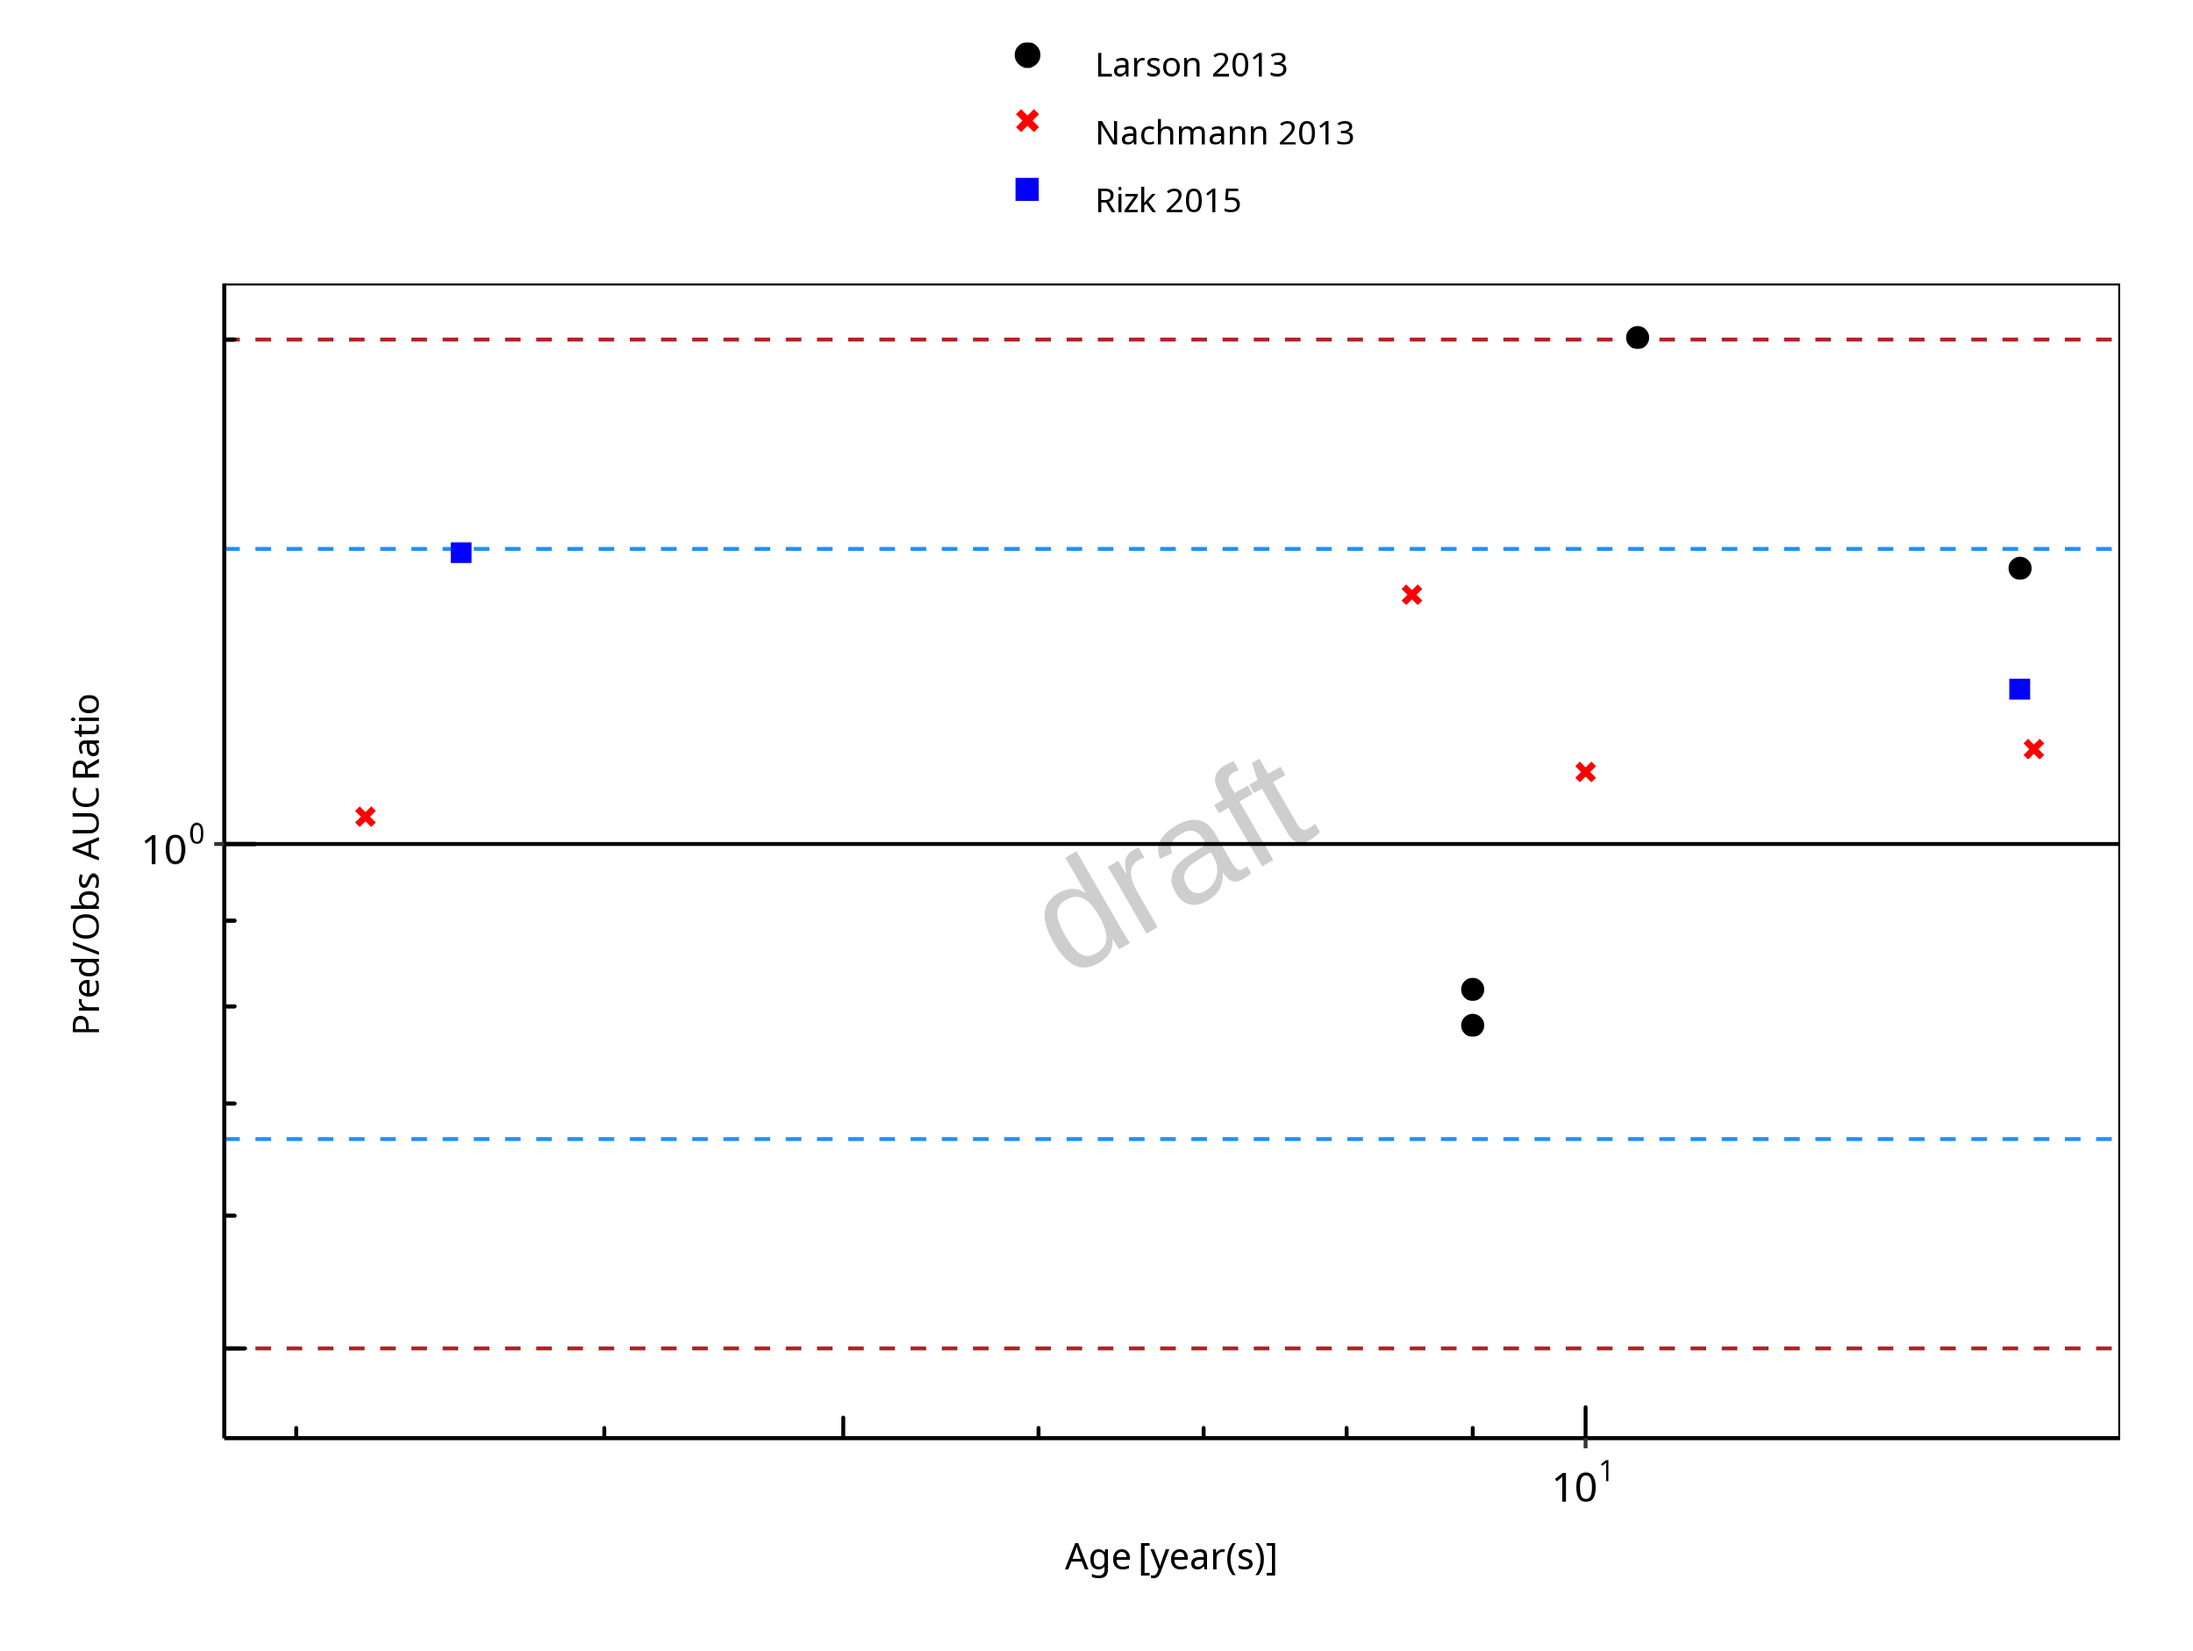
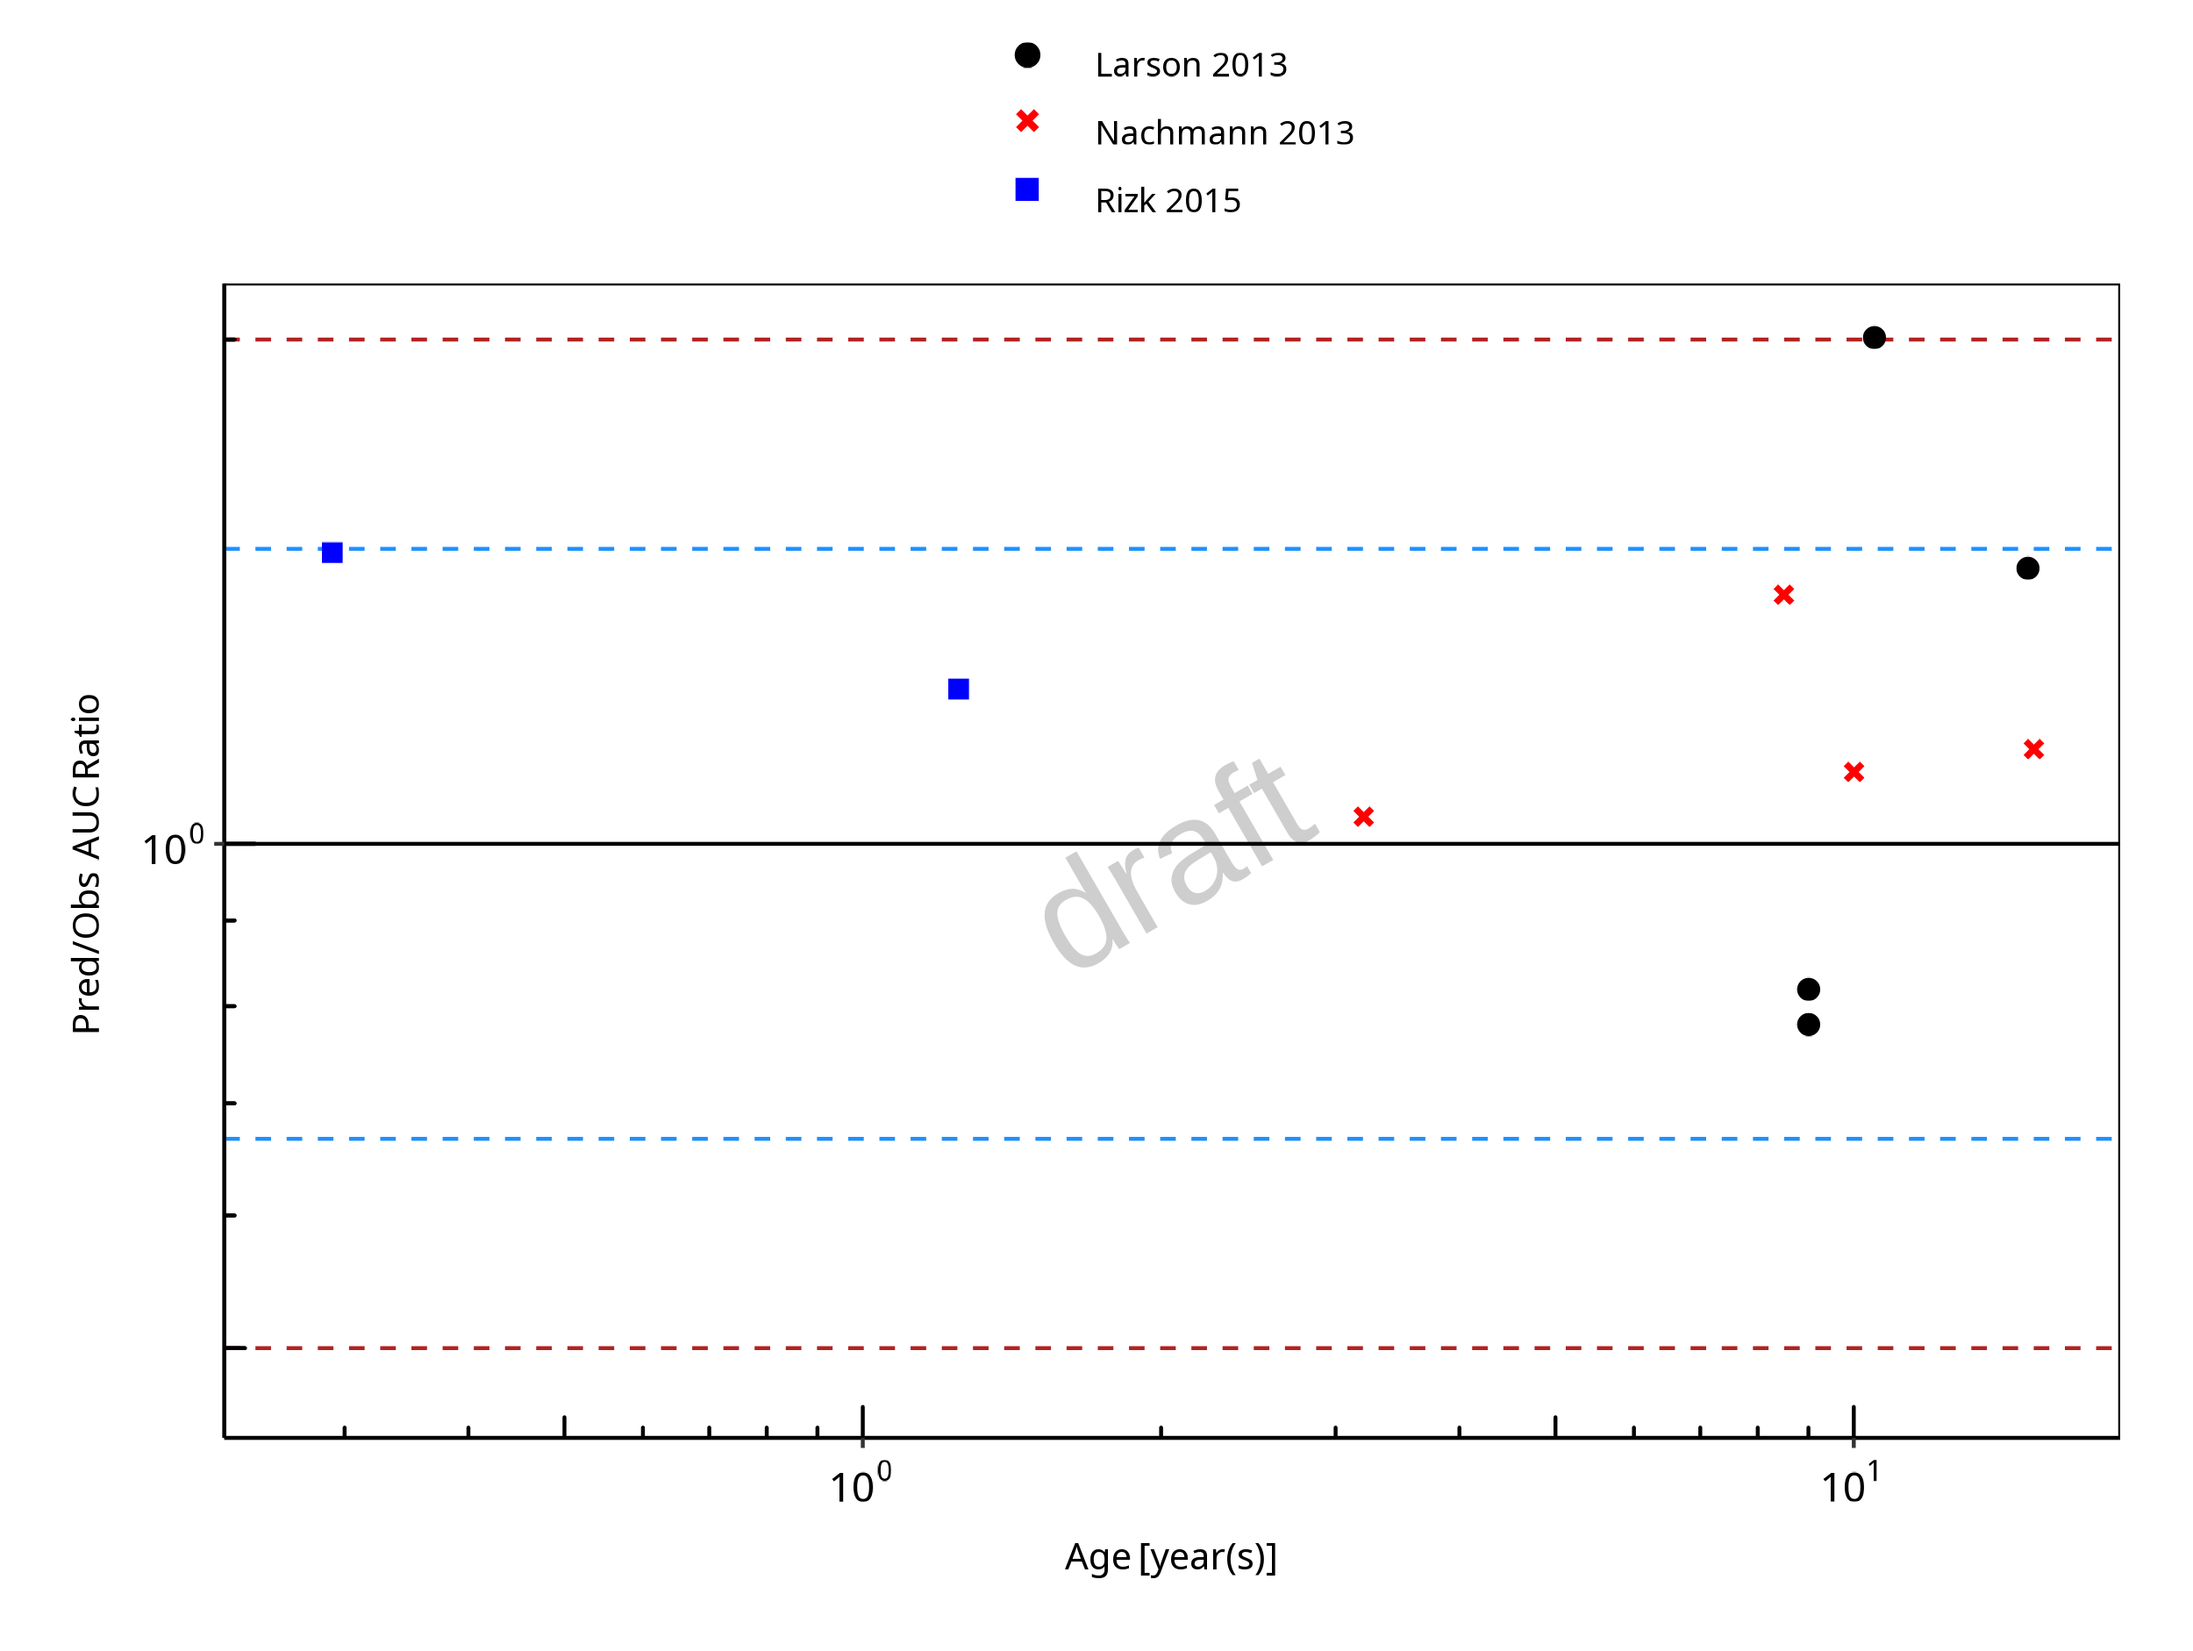
Deploying to gh-pages from @ Open-Systems-Pharmacology/RE-Test-Reports@5c4d835e1915ce0a2bf8ecbab8d8bc02d3036794 🚀

diff --git a/docs/index.html b/docs/index.html
@@ -81,7 +81,7 @@
   <main id="main" class="col-md-9"><div class="section level1">
 <div class="page-header"><h1 id="reporting-engine-test-reports">Reporting Engine Test Reports<a class="anchor" aria-label="anchor" href="#reporting-engine-test-reports"></a>
 </h1></div>
-<p>Open System Pharmacology 2026-06-30</p>
+<p>Open System Pharmacology 2026-07-06</p>
 <div class="section level2">
 <h2 id="welcome-">Welcome !<a class="anchor" aria-label="anchor" href="#welcome-"></a>
 </h2>
@@ -147,9 +147,9 @@ Click to expand
 <span id="cb1-19"><a href="#cb1-19" tabindex="-1"></a><span class="do">## [1] stats     graphics  grDevices utils     datasets  methods   base     </span></span>
 <span id="cb1-20"><a href="#cb1-20" tabindex="-1"></a><span class="do">## </span></span>
 <span id="cb1-21"><a href="#cb1-21" tabindex="-1"></a><span class="do">## other attached packages:</span></span>
-<span id="cb1-22"><a href="#cb1-22" tabindex="-1"></a><span class="do">## [1] RE-Test-Reports_0.0.0.9000          ospsuite.reportingengine_2.4.0.9007</span></span>
-<span id="cb1-23"><a href="#cb1-23" tabindex="-1"></a><span class="do">## [3] ospsuite_12.4.3.9011                tlf_1.6.2.9001                     </span></span>
-<span id="cb1-24"><a href="#cb1-24" tabindex="-1"></a><span class="do">## [5] testthat_3.3.2                      dplyr_1.2.1                        </span></span>
+<span id="cb1-22"><a href="#cb1-22" tabindex="-1"></a><span class="do">## [1] RE-Test-Reports_0.0.0.9000     ospsuite.reportingengine_2.4.7</span></span>
+<span id="cb1-23"><a href="#cb1-23" tabindex="-1"></a><span class="do">## [3] ospsuite_12.4.3.9013           tlf_1.6.2.9001                </span></span>
+<span id="cb1-24"><a href="#cb1-24" tabindex="-1"></a><span class="do">## [5] testthat_3.3.2                 dplyr_1.2.1                   </span></span>
 <span id="cb1-25"><a href="#cb1-25" tabindex="-1"></a><span class="do">## </span></span>
 <span id="cb1-26"><a href="#cb1-26" tabindex="-1"></a><span class="do">## loaded via a namespace (and not attached):</span></span>
 <span id="cb1-27"><a href="#cb1-27" tabindex="-1"></a><span class="do">##  [1] gtable_0.3.6                          </span></span>
@@ -224,9 +224,9 @@ Click to expand
 <span id="cb1-96"><a href="#cb1-96" tabindex="-1"></a><span class="do">## [70] knitr_1.51                            </span></span>
 <span id="cb1-97"><a href="#cb1-97" tabindex="-1"></a><span class="do">## [71] viridisLite_0.4.3                     </span></span>
 <span id="cb1-98"><a href="#cb1-98" tabindex="-1"></a><span class="do">## [72] markdown_2.0                          </span></span>
-<span id="cb1-99"><a href="#cb1-99" tabindex="-1"></a><span class="do">## [73] rlang_1.2.0                           </span></span>
+<span id="cb1-99"><a href="#cb1-99" tabindex="-1"></a><span class="do">## [73] rlang_1.3.0                           </span></span>
 <span id="cb1-100"><a href="#cb1-100" tabindex="-1"></a><span class="do">## [74] gridtext_0.1.6                        </span></span>
-<span id="cb1-101"><a href="#cb1-101" tabindex="-1"></a><span class="do">## [75] Rcpp_1.1.1-1.1                        </span></span>
+<span id="cb1-101"><a href="#cb1-101" tabindex="-1"></a><span class="do">## [75] Rcpp_1.1.2                            </span></span>
 <span id="cb1-102"><a href="#cb1-102" tabindex="-1"></a><span class="do">## [76] glue_1.8.1                            </span></span>
 <span id="cb1-103"><a href="#cb1-103" tabindex="-1"></a><span class="do">## [77] xml2_1.6.0                            </span></span>
 <span id="cb1-104"><a href="#cb1-104" tabindex="-1"></a><span class="do">## [78] pkgload_1.5.3                         </span></span>

diff --git a/docs/articles/Pediatric_Qualification_Package_UGT1A1_Ontogeny.html b/docs/articles/Pediatric_Qualification_Package_UGT1A1_Ontogeny.html
@@ -375,7 +375,7 @@ error, respectively.</strong></p>
 <tbody>
 <tr class="odd">
 <td align="left">Rizk 2015</td>
-<td align="left">3.50</td>
+<td align="left">0.29</td>
 <td align="left">5.50</td>
 <td align="left">14323.05</td>
 <td align="left">9599.39</td>
@@ -383,7 +383,7 @@ error, respectively.</strong></p>
 </tr>
 <tr class="even">
 <td align="left">Rizk 2015</td>
-<td align="left">15.00</td>
+<td align="left">1.25</td>
 <td align="left">8.50</td>
 <td align="left">10882.43</td>
 <td align="left">8799.44</td>
